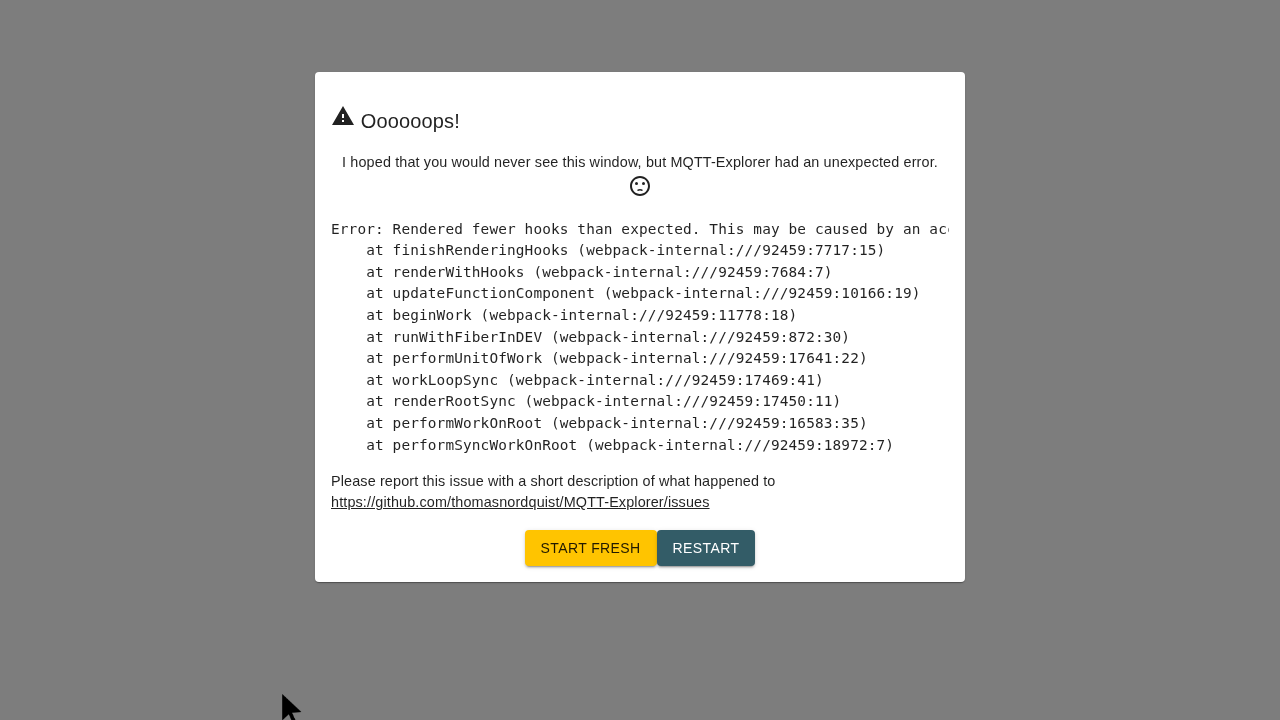
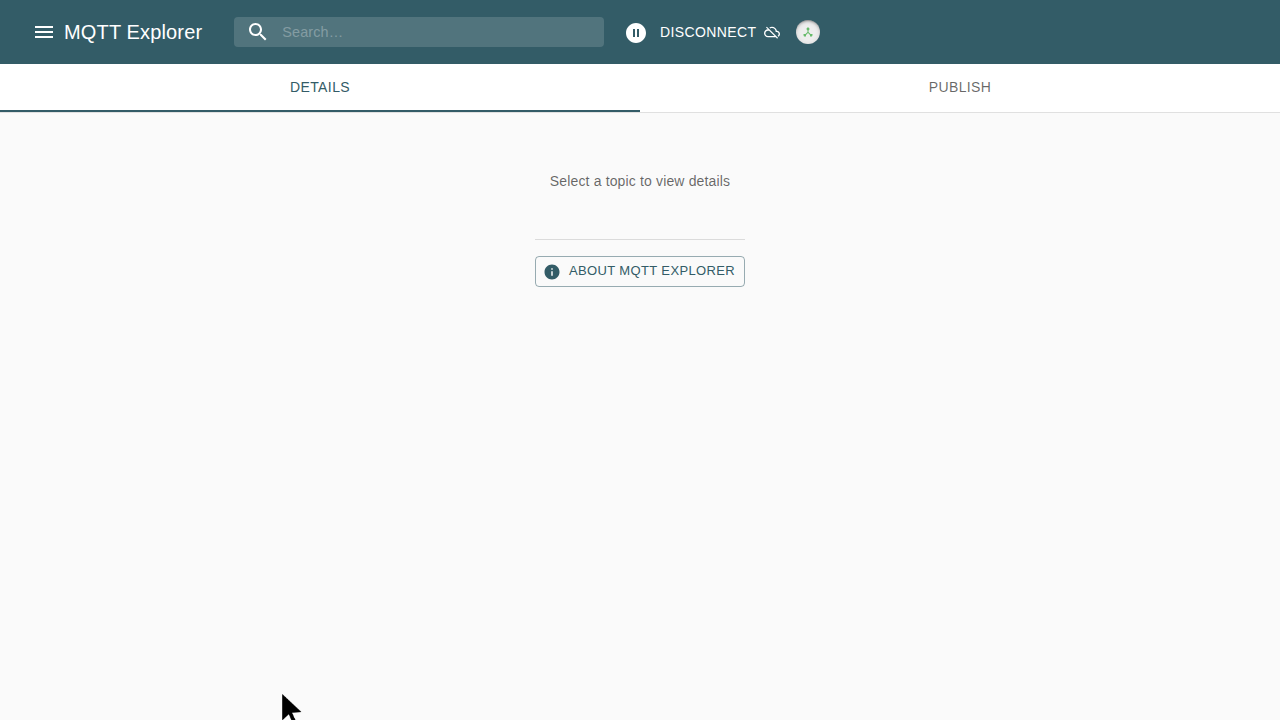
Fix React hooks violation in ContentView - move useEffect outside conditional

diff --git a/app/src/components/Layout/ContentView.tsx b/app/src/components/Layout/ContentView.tsx
@@ -87,25 +87,27 @@ function ContentView(props: Props) {
     }
   }, [props.chartPanelItems])
 
+  // Expose tab switching functions for other components to call (mobile only)
+  // This effect must be outside the conditional render to avoid React hooks rules violation
+  React.useEffect(() => {
+    if (isMobile && typeof window !== 'undefined') {
+      (window as any).switchToDetailsTab = () => setMobileTab(1)
+      (window as any).switchToTopicsTab = () => setMobileTab(0)
+      ;(window as any).switchToPublishTab = () => setMobileTab(2)
+      ;(window as any).switchToChartsTab = () => setMobileTab(3)
+    }
+    return () => {
+      if (typeof window !== 'undefined') {
+        delete (window as any).switchToDetailsTab
+        delete (window as any).switchToTopicsTab
+        delete (window as any).switchToPublishTab
+        delete (window as any).switchToChartsTab
+      }
+    }
+  }, [isMobile])
+
   // Mobile view with tab switcher
   if (isMobile) {
-    // Expose tab switching functions for other components to call
-    React.useEffect(() => {
-      if (typeof window !== 'undefined') {
-        (window as any).switchToDetailsTab = () => setMobileTab(1)
-        (window as any).switchToTopicsTab = () => setMobileTab(0)
-        ;(window as any).switchToPublishTab = () => setMobileTab(2)
-        ;(window as any).switchToChartsTab = () => setMobileTab(3)
-      }
-      return () => {
-        if (typeof window !== 'undefined') {
-          delete (window as any).switchToDetailsTab
-          delete (window as any).switchToTopicsTab
-          delete (window as any).switchToPublishTab
-          delete (window as any).switchToChartsTab
-        }
-      }
-    }, [])
 
     const mobileContainerStyle: React.CSSProperties = {
       display: 'flex',
